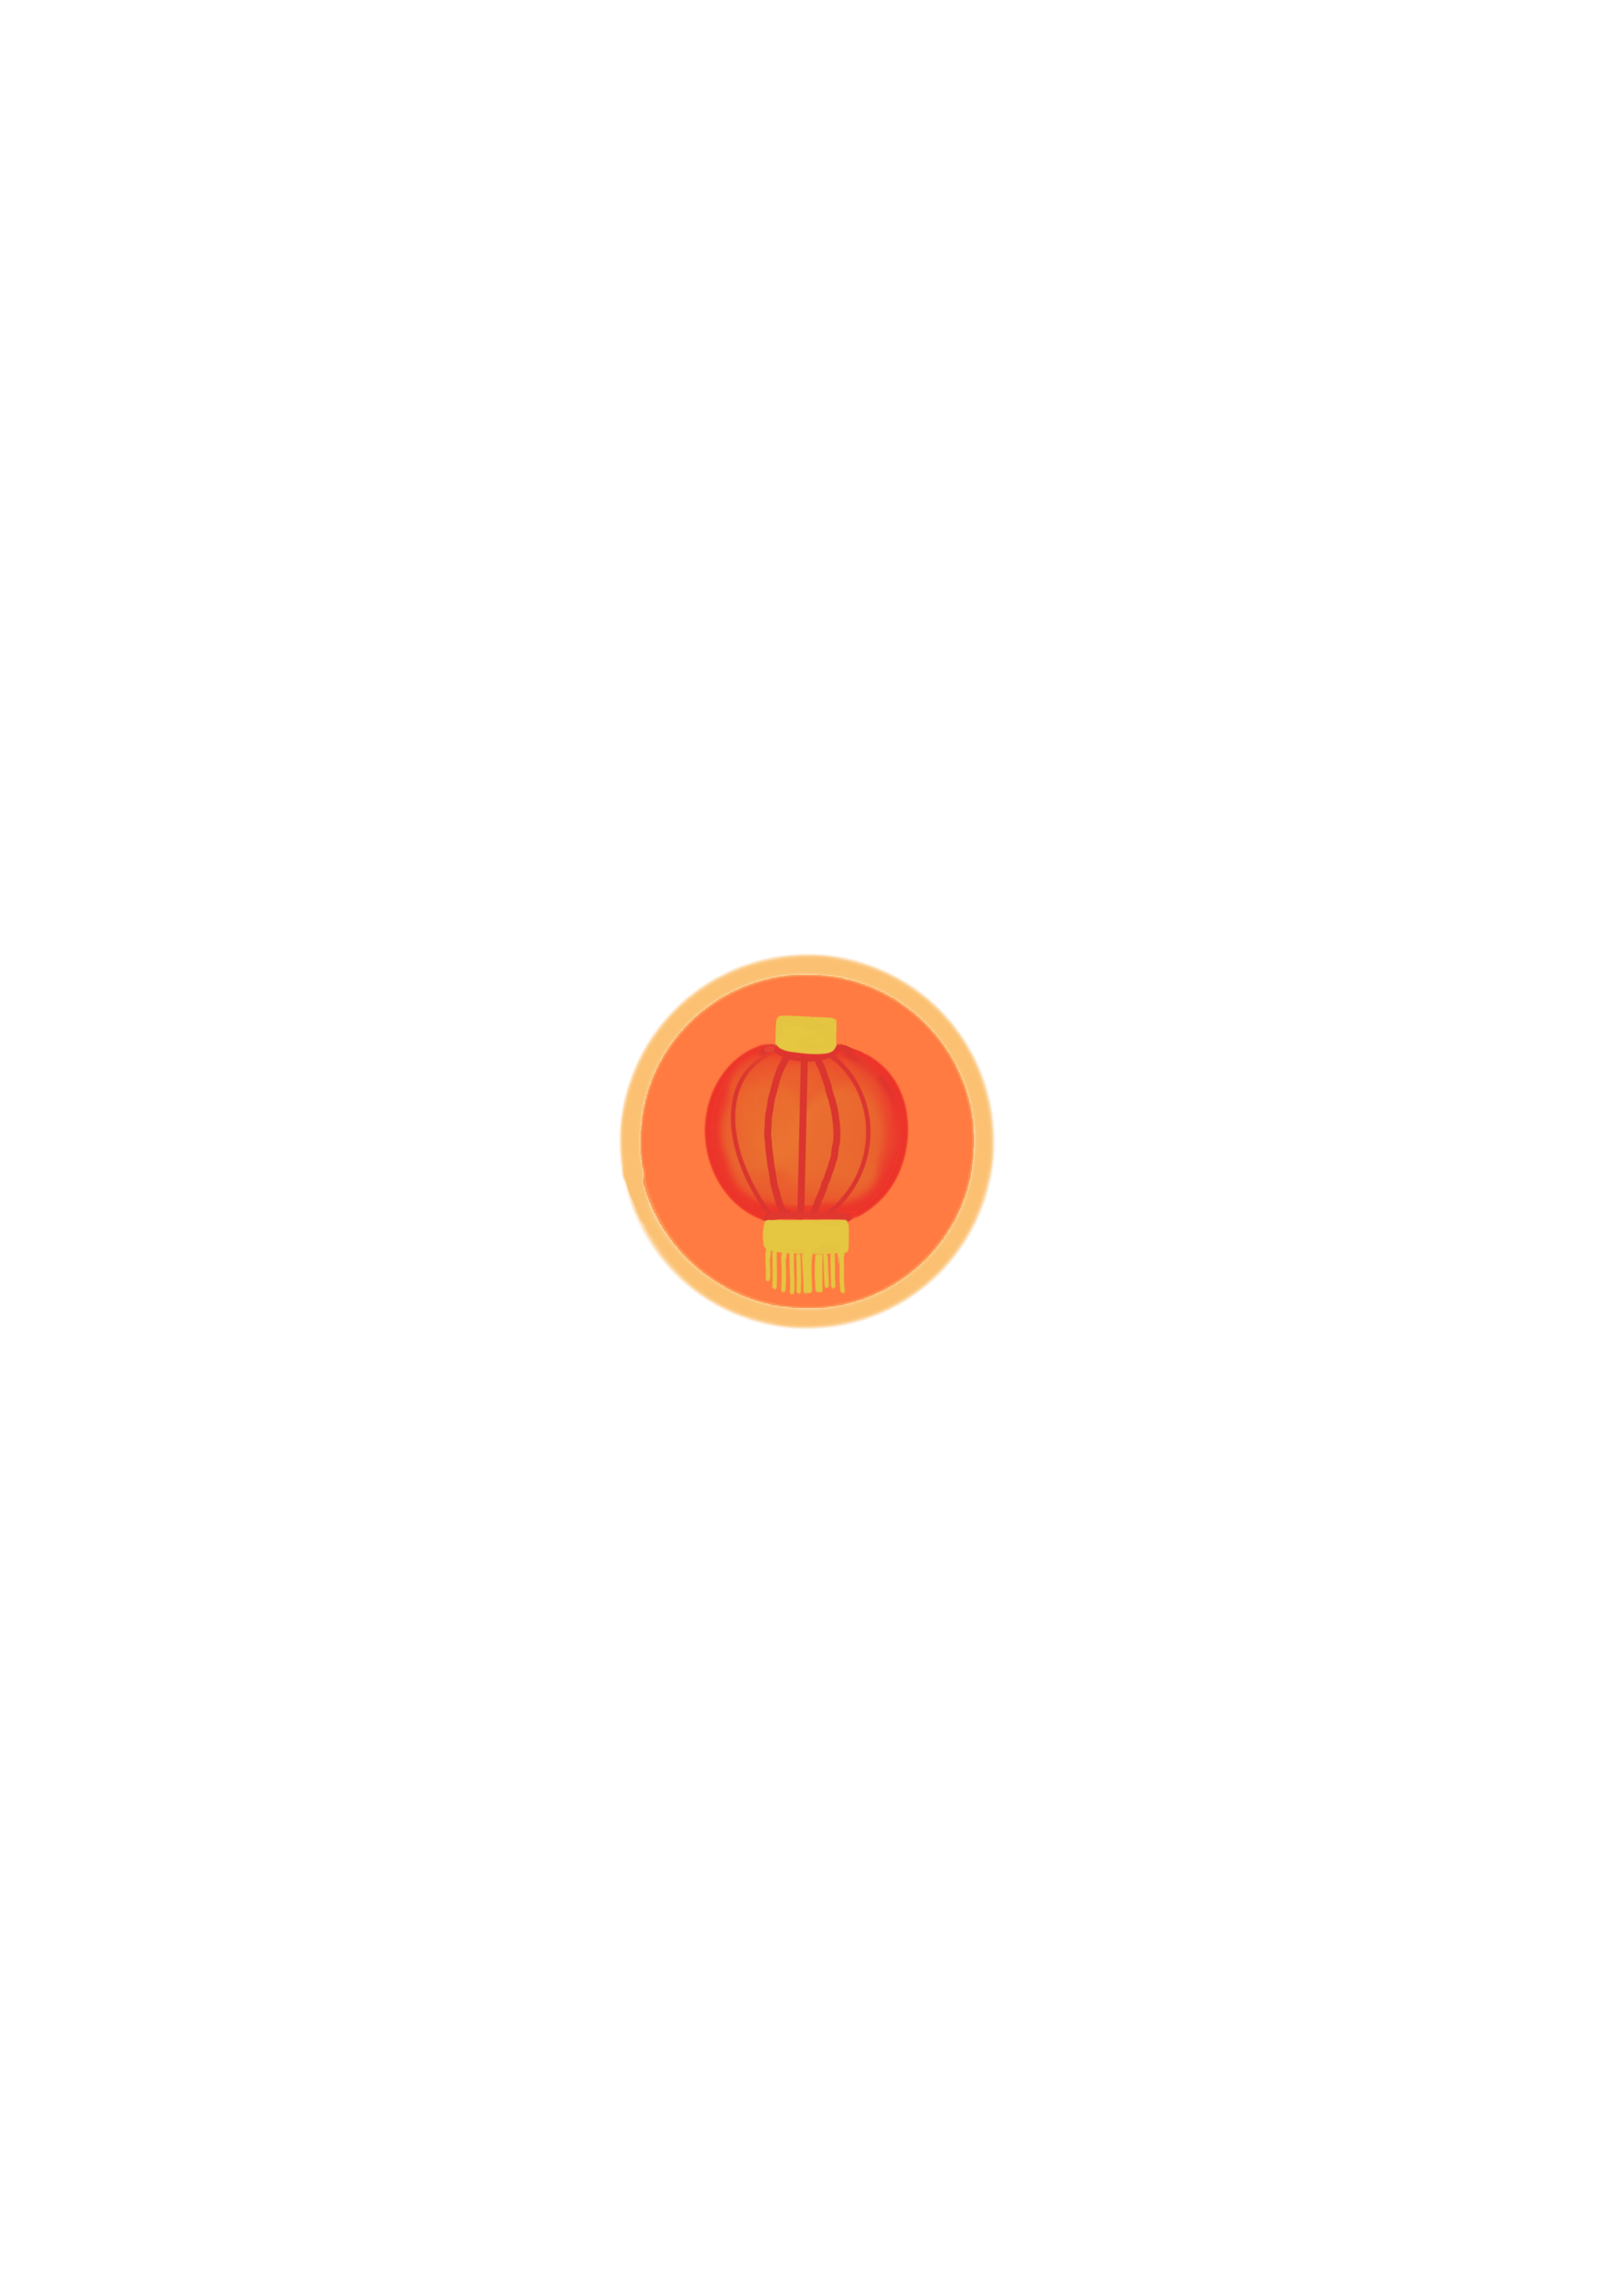
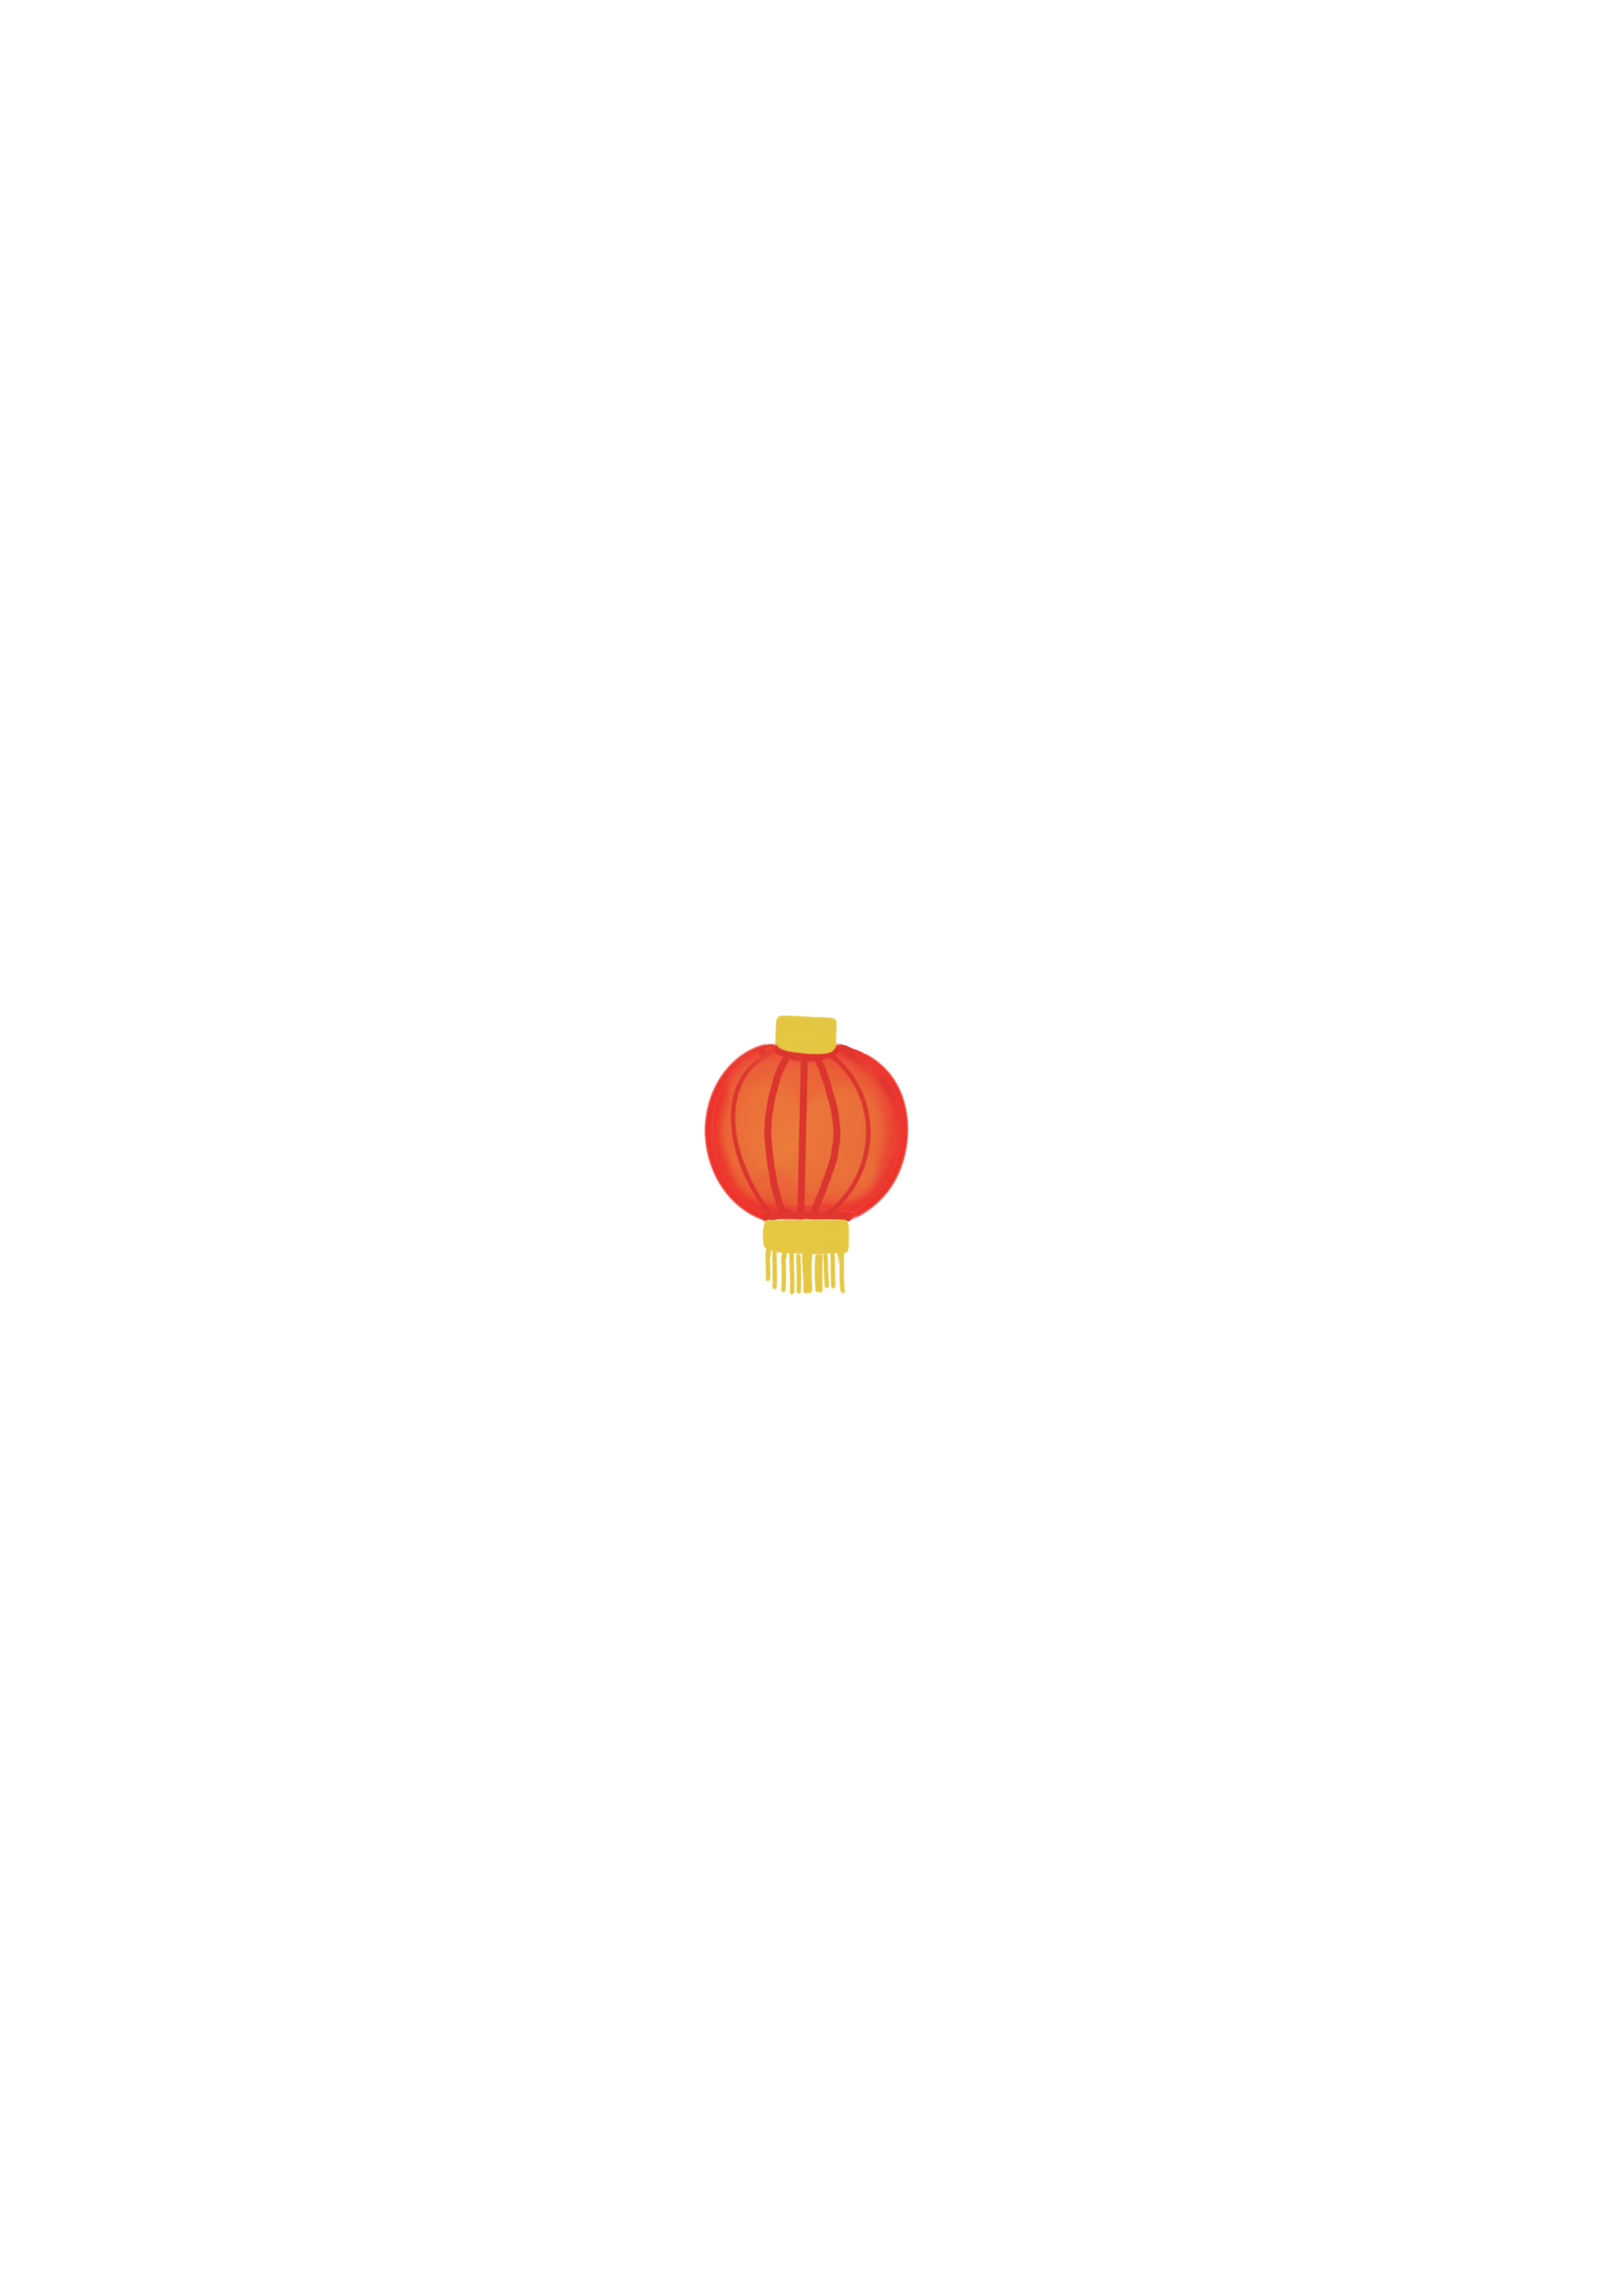
cleaning code

Changed region(s): [[0.3726, 0.4039, 0.621, 0.5904]]

diff --git a/my_phenakistoscope.js b/my_phenakistoscope.js
@@ -10,39 +10,43 @@ function setup_pScope(pScope){
   pScope.load_image_sequence("moving_dragon", "png", 11);
   pScope.load_image("symbol","png")
   pScope.load_image("cracker", "png")
+  pScope.load_image("lantern", "png")
 }
 
 function setup_layers(pScope){
 
-  new PLayer(null, 237, 231, 194);  //lets us draw the whole circle background, ignoring the boundaries
+  new PLayer(null,237, 231, 194);  //lets us draw the whole circle background, ignoring the boundaries
 
-  let insideBackground = new PLayer(insideRed);
+  let insideBackground = new PLayer(insideRed);//red centre ring 
   insideBackground.mode(RING);
   insideBackground.set_boundary(0,100);
 
-  let outsideBackground = new PLayer(outsideRed);
+  let outsideBackground = new PLayer(outsideRed);//red boundary ring 
   outsideBackground.mode(RING);
   outsideBackground.set_boundary(970,1000);
 
-  var layer1 = new PLayer(firework);
+  var layer1 = new PLayer(firework);//red and yellow ellipses  
   layer1.mode( SWIRL(4) );
   layer1.set_boundary( 100, 800 );
 
-  var layer2 = new PLayer(cracker);
+  var layer2 = new PLayer(cracker);//firecracker asset 
   layer2.mode( SWIRL(1) );
   layer2.set_boundary( 100, 300 );
 
-  let dragonSequence = new PLayer(dragon);
+  var layer3 = new PLayer(lantern);//lantern asset 
+  layer3.mode( SWIRL(1) );
+  layer3.set_boundary( 800, 1000 );
+
+  let dragonSequence = new PLayer(dragon);//dragon sequence
   dragonSequence.mode(RING);
   dragonSequence.set_boundary(0,800);
 
-  let CenterImage = new PLayer(symbol);
+  let CenterImage = new PLayer(symbol);//dragon symbol asset 
   CenterImage.mode(RING);
   CenterImage.set_boundary(0,30);
   
 
-  }
-
+}
 function symbol(x,y,animation,pScope){
   scale(0.8);
   pScope.draw_image("symbol",x,y);//dragon charcter symbol text type 
@@ -56,32 +60,14 @@ function firework(x, y, animation, pScope){
   scale(animation.wave(4));
 
   fill(191, 19, 13);//red 
-  ellipse(0,0,60,60); // red circle 
+  ellipse(0,0,60,60);//red circle 
   
 
   fill(237, 161, 9)//yellow 
   let ballSize  = 20 + (animation.wave(1)* 20)
-  ellipse(0, 0,ballSize); 
+  ellipse(0,0,ballSize); 
   
-
 }
-
-//function squares(x, y, animation, pScope){
-
-  // this is how you set up a background for a specific layer
-  //let angleOffset = (360 / SLICE_COUNT) / 2
-  //let backgroundArcStart = 270 - angleOffset;
-  //let backgroundArcEnd = 270 + angleOffset;
-
-  //fill(66, 135, 245)
-  //arc(x,y,800,800,backgroundArcStart,backgroundArcEnd); // draws "pizza slice" in the background
-  //scale(animation.wave(1));
-  //fill(255)
-  //ellipse(0,0,50,50);
-  //rect(-10,-300-animation.wave()*50,20,20) // .wave is a cosine wave btw
-
-
-
 function insideRed (x,y,animation,pScope){
   pScope.fill_background(191, 19, 13, 255);//red 
 }
@@ -89,8 +75,10 @@ function outsideRed (x,y,animation,pScope){
   pScope.fill_background(191, 19, 13, 255);//red 
 }
 function dragon(x,y,animation,pScope){
-  // translate(x,y-650);
-  scale(0.5);
-  //pScope.load_image("moving_dragon" , "png");
-  pScope.draw_image_from_sequence("moving_dragon", 0, -700, animation.frame);
+  scale(0.45);//size of image
+  pScope.draw_image_from_sequence("moving_dragon", 0, -700, animation.frame); //animated dragon sequence
+}
+function lantern(x,y,animation,pScope){
+  scale(0.4);
+  pScope.draw_image("lantern",x,y);// lantern asset
 }
